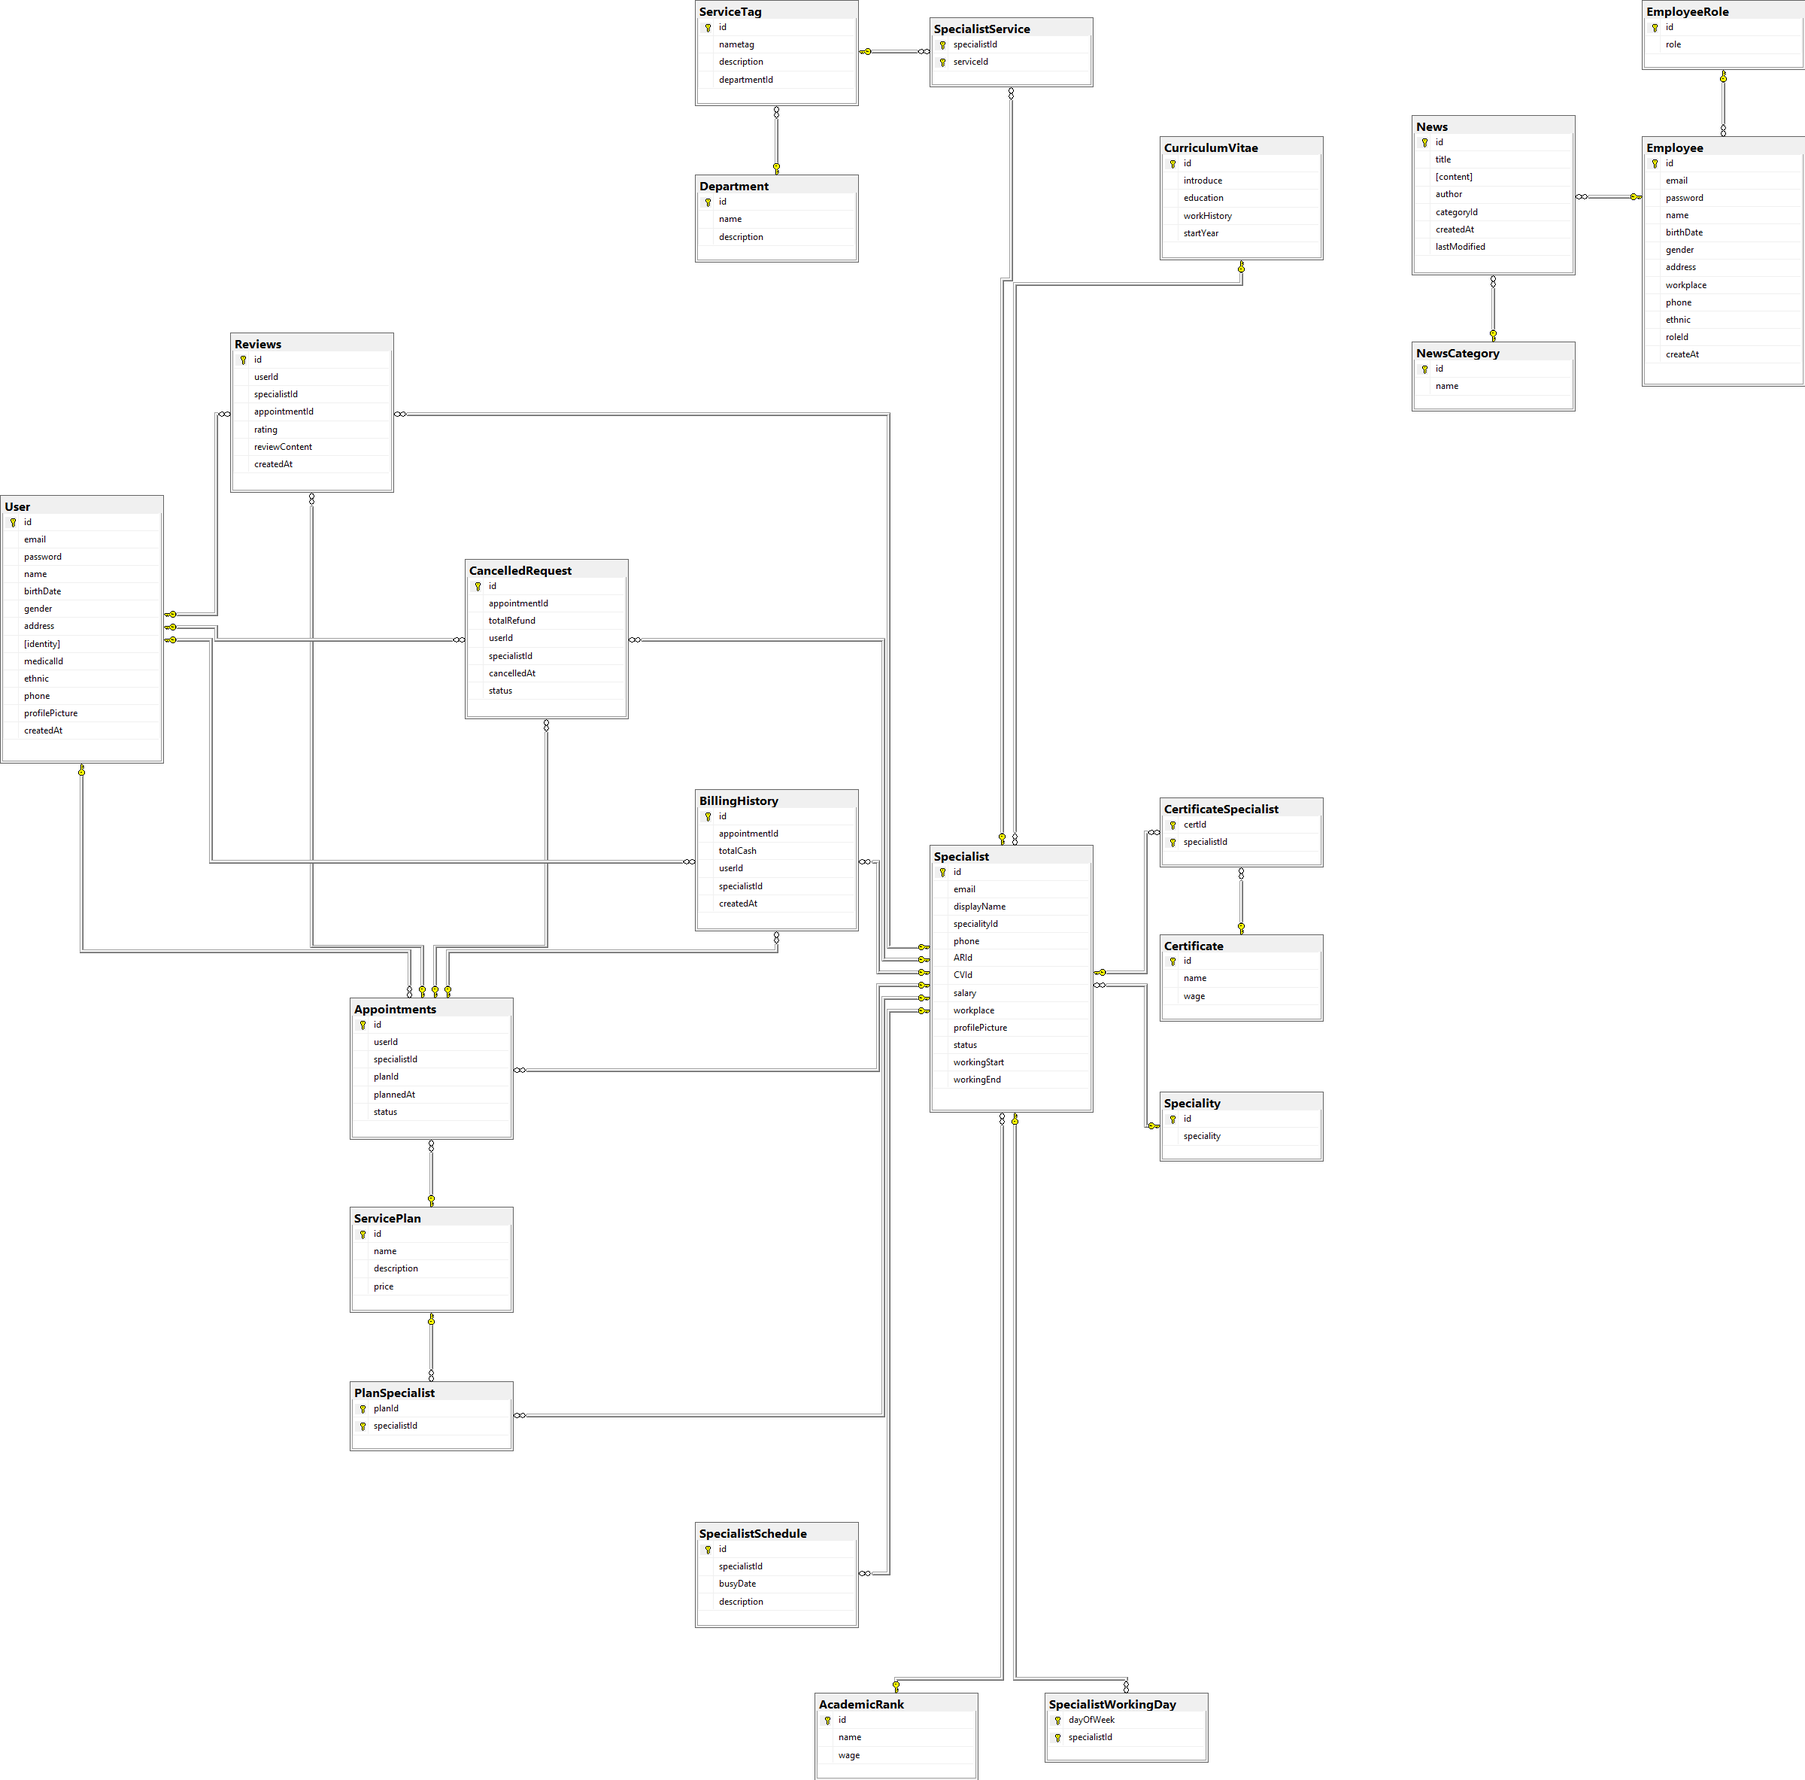
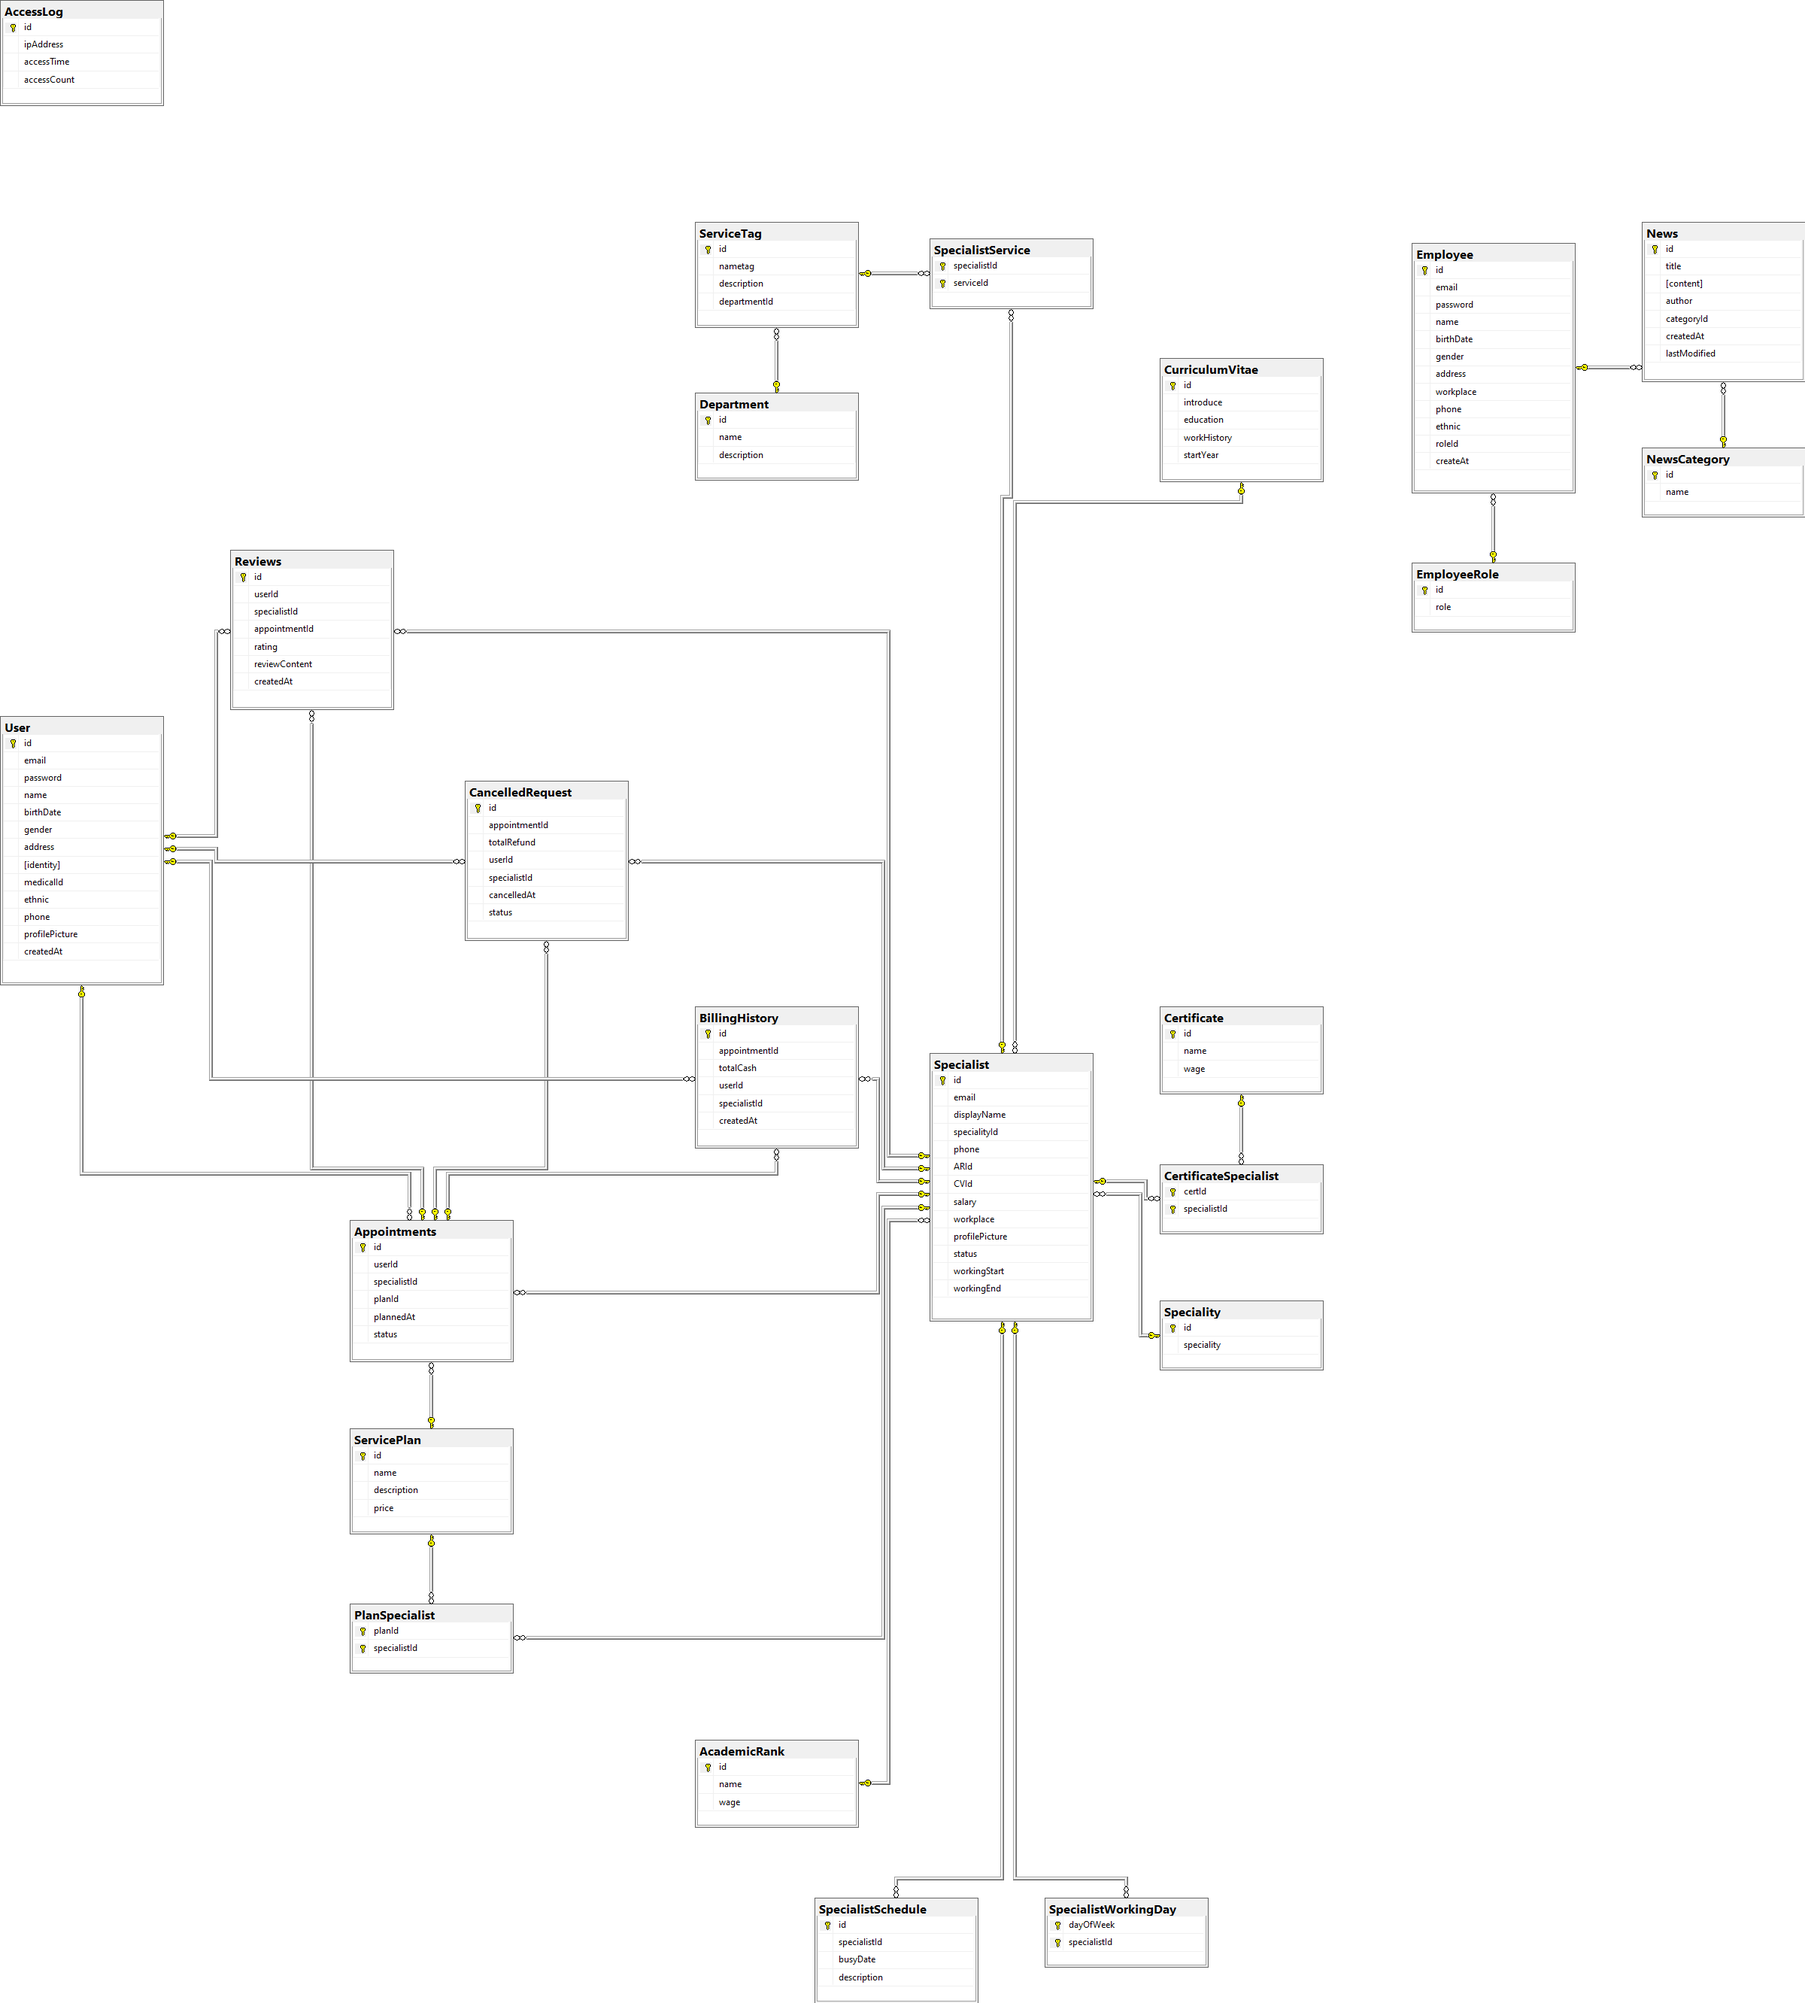
update DBv3.2

diff --git a/database/README.md b/database/README.md
@@ -12,6 +12,10 @@
 - Table AdminRole now changes to EmployeeRole, now represents the Role of Employee in the system (which may include CEO, Content Creator, Manager, or Administrator...)
 - Table Category now changes to NewsCategory
 - Table Plan now changes to ServicePlan
+- Remove 'accepted' and 'completed' in Appointments table. 'status' will now replace them.
+- CancelledRequest now has 'status' attribute.
+- Add 'appointmentId' attribute to the Reviews table, a complete Appointment should left a Review.
+- Add AccessLog table to tracking the accesses of web users.
 
 
 =================================================================
